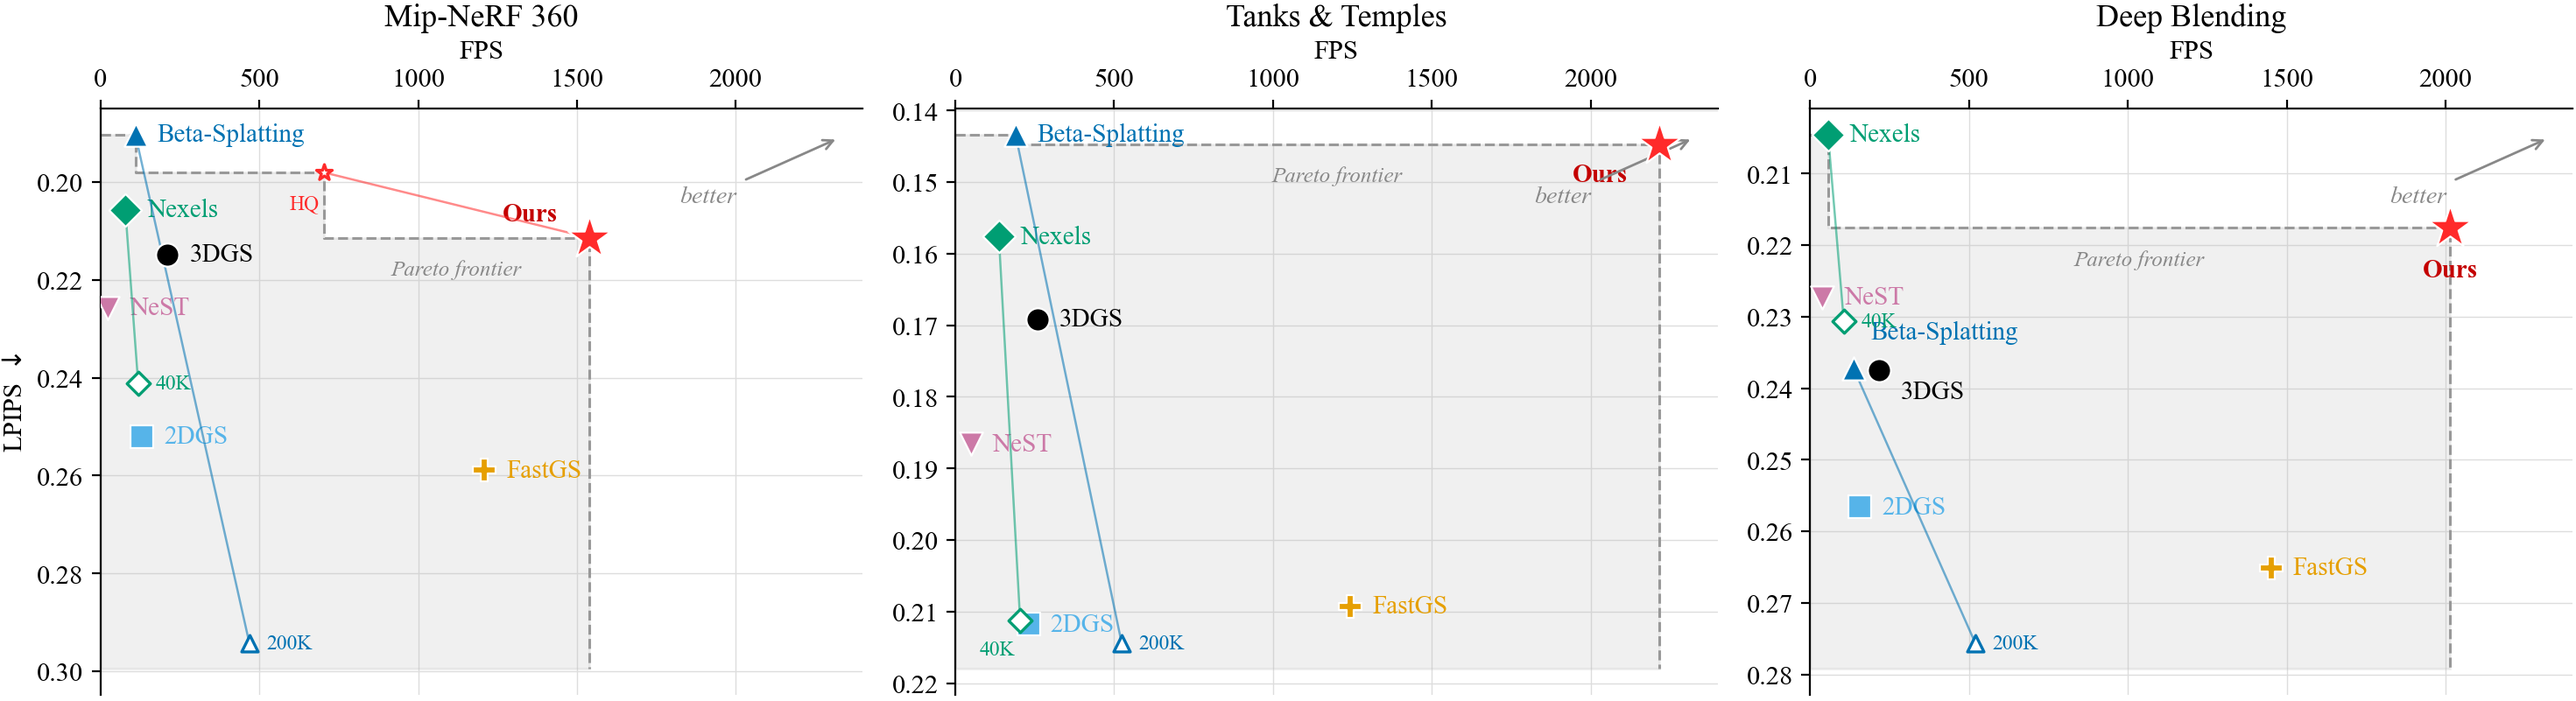
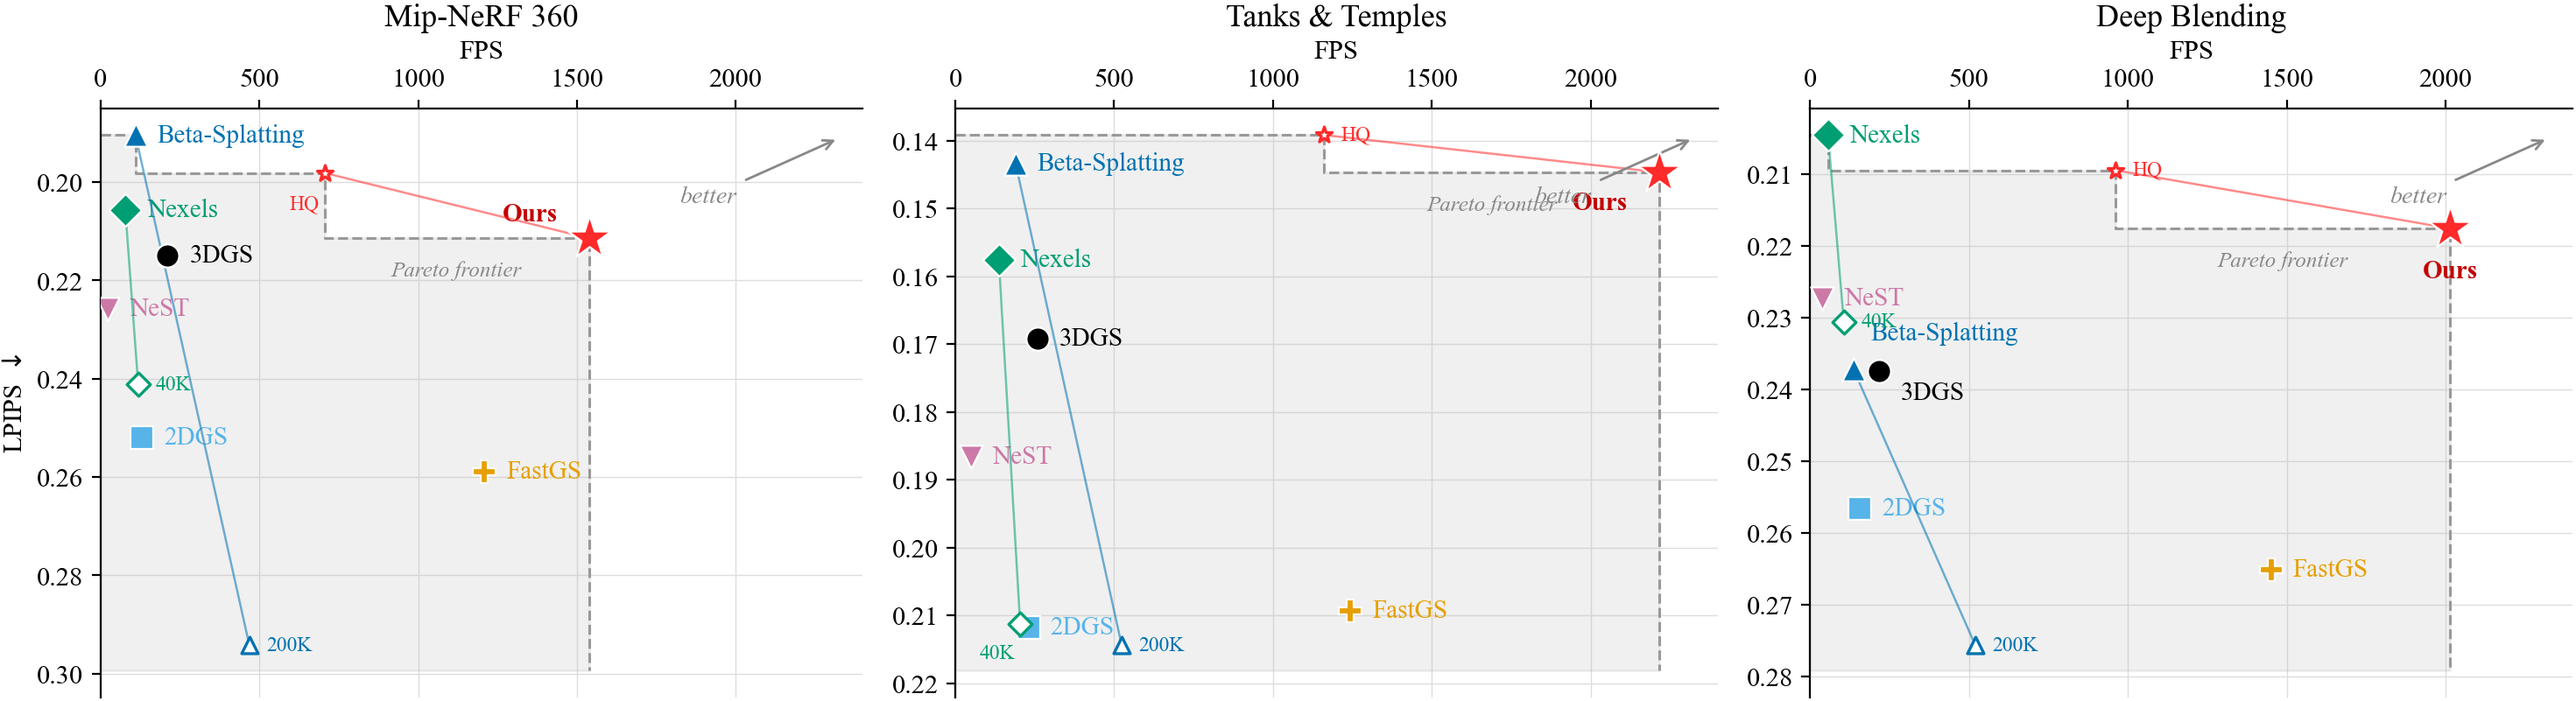
Ours (HQ) on all benchmarks: TnT/DB table rows, Pareto frontier update
On Tanks & Temples the HQ variant dominates Beta-Splatting; the
LPIPS-FPS frontier there is entirely ours.

diff --git a/index.html b/index.html
@@ -350,17 +350,19 @@
   <p>Every baseline below is retrained and re-benchmarked by us on the same RTX&nbsp;5090, with
      quality recomputed from the saved renders by one shared evaluation script &mdash; no numbers
      are copied from other papers. We are the <strong>fastest method on all three
-     benchmarks</strong>; among methods above 1000&nbsp;FPS (Speedy-Splat, FastGS, ours) we have
-     the best LPIPS on every benchmark mean and on 12 of 13 scenes. Red, orange and yellow tints
+     benchmarks</strong>; among methods above 1000&nbsp;FPS we have the best LPIPS on every
+     benchmark mean and on 12 of 13 scenes. Red, orange and yellow tints
      mark the best, second and third value in each quality and speed column (Primitives and Size
      are context, not ranked; see the note below).</p>
 
   <figure>
     <img src="static/images/pareto.png" alt="LPIPS versus FPS on Mip-NeRF 360, Tanks and Temples and Deep Blending: our method sits alone at the fast end of the Pareto frontier on all three benchmarks">
     <figcaption>LPIPS vs FPS (LPIPS decreases upward, so the best corner is top right) for seven
-      representative methods plus primitive-budget variants. On every benchmark the Pareto frontier
-      reduces to a quality anchor (Beta-Splatting or Nexels-400K) and us; on Mip-NeRF&nbsp;360 our
-      Gaussian-kernel HQ variant adds a third frontier point.</figcaption>
+      representative methods plus variants. The fast end of every Pareto frontier is our two
+      operating points (the Gaussian-kernel HQ variant, then our Beta model); on
+      Mip-NeRF&nbsp;360 and Deep Blending a quality anchor (Beta-Splatting / Nexels-400K) holds
+      the slow end, while on Tanks&nbsp;&amp;&nbsp;Temples the frontier is entirely
+      ours.</figcaption>
   </figure>
 
   <div class="fullcmp">
@@ -398,17 +400,18 @@
     <tbody>
       <tr><td>3DGS</td><td class="n">23.74</td><td class="n r2">0.8574</td><td class="n">0.1692</td><td class="n">1,574,592</td><td class="n">372</td><td class="n">259</td></tr>
       <tr><td>2DGS</td><td class="n">23.15</td><td class="n">0.8367</td><td class="n">0.2118</td><td class="n">851,362</td><td class="n">198</td><td class="n">230</td></tr>
-      <tr><td>Beta-Splatting</td><td class="n r1"><strong>24.71</strong></td><td class="n r1"><strong>0.8735</strong></td><td class="n r1"><strong>0.1434</strong></td><td class="n">1,750,000</td><td class="n">200</td><td class="n">190</td></tr>
+      <tr><td>Beta-Splatting</td><td class="n r1"><strong>24.71</strong></td><td class="n r1"><strong>0.8735</strong></td><td class="n r2">0.1434</td><td class="n">1,750,000</td><td class="n">200</td><td class="n">190</td></tr>
       <tr><td>Beta-Splatting (200K)</td><td class="n">23.38</td><td class="n">0.8348</td><td class="n">0.2144</td><td class="n">200,000</td><td class="n">23</td><td class="n">524</td></tr>
-      <tr><td>BBSplat</td><td class="n">23.70</td><td class="n r3">0.8570</td><td class="n r3">0.1501</td><td class="n">300,000</td><td class="n">226</td><td class="n">80</td></tr>
+      <tr><td>BBSplat</td><td class="n">23.70</td><td class="n r3">0.8570</td><td class="n">0.1501</td><td class="n">300,000</td><td class="n">226</td><td class="n">80</td></tr>
       <tr><td>Nexels (40K)</td><td class="n">22.25</td><td class="n">0.7942</td><td class="n">0.2113</td><td class="n">39,979</td><td class="n">138</td><td class="n">204</td></tr>
       <tr><td>Nexels (400K)</td><td class="n">23.62</td><td class="n">0.8449</td><td class="n">0.1576</td><td class="n">399,767</td><td class="n">230</td><td class="n">137</td></tr>
       <tr><td>Speedy-Splat</td><td class="n">23.44</td><td class="n">0.8252</td><td class="n">0.2399</td><td class="n">181,817</td><td class="n">43</td><td class="n r2">1459</td></tr>
-      <tr><td>FastGS</td><td class="n r3">24.00</td><td class="n">0.8404</td><td class="n">0.2093</td><td class="n">242,133</td><td class="n">60</td><td class="n r3">1243</td></tr>
+      <tr><td>FastGS</td><td class="n">24.00</td><td class="n">0.8404</td><td class="n">0.2093</td><td class="n">242,133</td><td class="n">60</td><td class="n r3">1243</td></tr>
       <tr><td>Content-Aware Texturing</td><td class="n">23.37</td><td class="n">0.8387</td><td class="n">0.1973</td><td class="n">133,880</td><td class="n">127</td><td class="n">270</td></tr>
       <tr><td>Textured Gaussians</td><td class="n">22.70</td><td class="n">0.8058</td><td class="n">0.2161</td><td class="n">100,000</td><td class="n">3,837</td><td class="n">30</td></tr>
       <tr><td>NeST</td><td class="n">22.54</td><td class="n">0.8178</td><td class="n">0.1866</td><td class="n">378,448</td><td class="n">90</td><td class="n">48</td></tr>
-      <tr class="ours"><td><strong>Ours</strong></td><td class="n r2">24.10</td><td class="n">0.8507</td><td class="n r2">0.1447</td><td class="n">86,746</td><td class="n">325</td><td class="n r1"><strong>2217</strong></td></tr>
+      <tr class="ours"><td>Ours (HQ)</td><td class="n r2">24.50</td><td class="n">&mdash;</td><td class="n r1"><strong>0.1392</strong></td><td class="n">&mdash;</td><td class="n">&mdash;</td><td class="n">1161</td></tr>
+      <tr class="ours"><td><strong>Ours</strong></td><td class="n r3">24.10</td><td class="n">0.8507</td><td class="n r3">0.1447</td><td class="n">86,746</td><td class="n">325</td><td class="n r1"><strong>2217</strong></td></tr>
     </tbody>
   </table>
   </div>
@@ -428,11 +431,12 @@
       <tr><td>Nexels (40K)</td><td class="n">29.34</td><td class="n">0.8981</td><td class="n">0.2306</td><td class="n">39,958</td><td class="n">138</td><td class="n">106</td></tr>
       <tr><td>Nexels (400K)</td><td class="n r1"><strong>30.41</strong></td><td class="n r2">0.9138</td><td class="n r1"><strong>0.2046</strong></td><td class="n">399,188</td><td class="n">230</td><td class="n">56</td></tr>
       <tr><td>Speedy-Splat</td><td class="n">29.62</td><td class="n">0.9074</td><td class="n">0.2678</td><td class="n">250,990</td><td class="n">59</td><td class="n r2">1501</td></tr>
-      <tr><td>FastGS</td><td class="n r2">30.02</td><td class="n">0.9045</td><td class="n">0.2651</td><td class="n">216,748</td><td class="n">54</td><td class="n r3">1451</td></tr>
-      <tr><td>Content-Aware Texturing</td><td class="n r3">29.99</td><td class="n r1"><strong>0.9141</strong></td><td class="n">0.2410</td><td class="n">185,094</td><td class="n">252</td><td class="n">147</td></tr>
+      <tr><td>FastGS</td><td class="n r3">30.02</td><td class="n">0.9045</td><td class="n">0.2651</td><td class="n">216,748</td><td class="n">54</td><td class="n r3">1451</td></tr>
+      <tr><td>Content-Aware Texturing</td><td class="n">29.99</td><td class="n r1"><strong>0.9141</strong></td><td class="n">0.2410</td><td class="n">185,094</td><td class="n">252</td><td class="n">147</td></tr>
       <tr><td>Textured Gaussians</td><td class="n">29.04</td><td class="n">0.8913</td><td class="n">0.2652</td><td class="n">100,000</td><td class="n">3,837</td><td class="n">30</td></tr>
-      <tr><td>NeST</td><td class="n">28.86</td><td class="n">0.9021</td><td class="n r3">0.2273</td><td class="n">478,000</td><td class="n">113</td><td class="n">38</td></tr>
-      <tr class="ours"><td><strong>Ours</strong></td><td class="n">29.87</td><td class="n">0.8902</td><td class="n r2">0.2176</td><td class="n">66,622</td><td class="n">259</td><td class="n r1"><strong>2014</strong></td></tr>
+      <tr><td>NeST</td><td class="n">28.86</td><td class="n">0.9021</td><td class="n">0.2273</td><td class="n">478,000</td><td class="n">113</td><td class="n">38</td></tr>
+      <tr class="ours"><td>Ours (HQ)</td><td class="n r2">30.28</td><td class="n">&mdash;</td><td class="n r2">0.2095</td><td class="n">&mdash;</td><td class="n">&mdash;</td><td class="n">961</td></tr>
+      <tr class="ours"><td><strong>Ours</strong></td><td class="n">29.87</td><td class="n">0.8902</td><td class="n r3">0.2176</td><td class="n">66,622</td><td class="n">259</td><td class="n r1"><strong>2014</strong></td></tr>
     </tbody>
   </table>
   </div>
@@ -444,10 +448,10 @@
     Beta-Splatting (200K) and Nexels (40K) are those papers' own reduced primitive budgets,
     closest to our primitive count. NeST is run as its released baseline method.
     <em>Ours (HQ)</em> swaps the Beta kernel for a Gaussian kernel in our highest-quality
-    configuration (Mip-NeRF&nbsp;360 only): +0.60&nbsp;dB and &minus;0.014 LPIPS over our Beta
-    model at 0.46&times; the frame rate. Its quality is from our training-pipeline evaluation
-    (within 0.05&nbsp;dB / 0.001 LPIPS of the shared script on our method), its FPS is derived
-    from per-scene speed ratios, and its primitive count and size were not recorded.
+    configuration: +0.3&ndash;0.6&nbsp;dB and &minus;0.006 to &minus;0.014 LPIPS over our Beta
+    model at 0.46&ndash;0.52&times; the frame rate. Its quality is from our training-pipeline
+    evaluation (within 0.11&nbsp;dB / 0.003 LPIPS of the shared script on our method); its
+    primitive count, size, and SSIM outside Mip-NeRF&nbsp;360 were not recorded.
   </p>
   </div>
 
